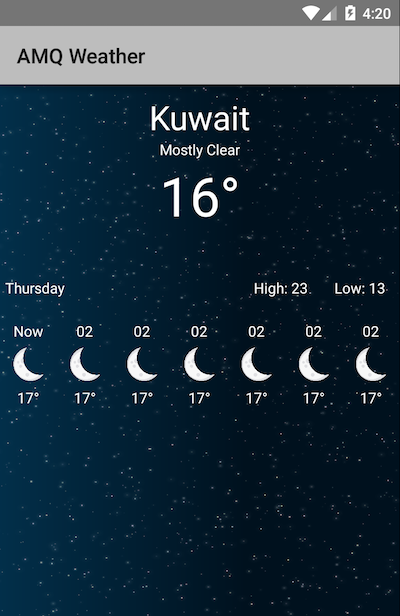
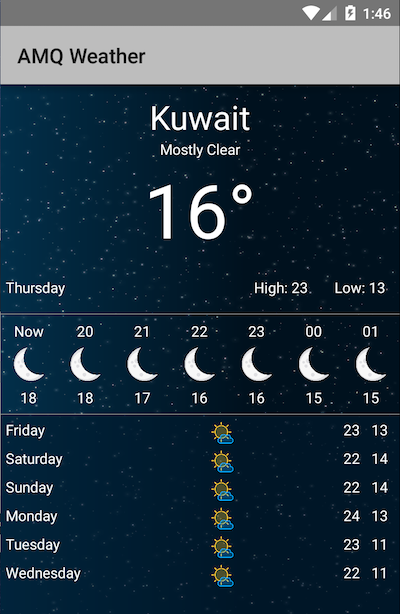
create amq add_alone for adding independent views, updating the weather example.

diff --git a/examples/weather/app/weather_screen.rb b/examples/weather/app/weather_screen.rb
@@ -16,21 +16,41 @@ class WeatherScreen < AMQScreen
           day_info.add(:text_view, :low_temp)
         end
         
+        details.add(:plain_view, :separator)
+        
         details.add(:linear_layout, :hourly_section) do |hourly|
-          hourly.add(:linear_layout, :hour_layout) do |now|
-            now.add(:text_view, :now_label)
-            now.add(:image_view, :moon)
-            now.add(:text_view, :temp)
-          end
-          
-          6.times do
-            hourly.add(:linear_layout, :hour_layout) do |hour|
-              hour.add(:text_view, :hour_label)
-              hour.add(:image_view, :moon)
-              hour.add(:text_view, :temp)
+          hours = %w(Now 20 21 22 23 00 01 02)
+          temps = %w(18  18 17 16 16 15 15 15)          
+          hours.each_with_index do |hour, index|
+            hourly.add(:linear_layout, :hour_layout) do |hour_column|
+              hour_column.add(:text_view, :hour_label).text = hour
+              hour_column.add(:image_view, :moon)
+              hour_column.add(:text_view, :temp).text = temps[index]
             end
           end
         end
+        
+        details.add(:plain_view, :separator)
+        
+        details.add(:grid_view, :daily_grid) do |daily_table|
+          forecast = [
+            {day: "Friday",     hi: "23", lo: "13"},
+            {day: "Saturday",   hi: "22", lo: "14"},
+            {day: "Sunday",     hi: "22", lo: "14"},
+            {day: "Monday",     hi: "24", lo: "13"},
+            {day: "Tuesday",    hi: "23", lo: "11"},
+            {day: "Wednesday",  hi: "22", lo: "11"},
+          ]
+          daily_table.adapter(forecast) do |day_forecast|
+            amq.add_alone(:linear_layout, :daily_layout) do |daily_layout|
+              daily_layout.add(:text_view,  :week_day_name).text = day_forecast[:day]
+              daily_layout.add(:image_view, :week_day_image)
+              daily_layout.add(:text_view,  :week_day_hi).text = day_forecast[:hi]
+              daily_layout.add(:text_view,  :week_day_lo).text = day_forecast[:lo]
+            end.get
+          end
+        end
+        
       end
     end
   end
@@ -70,7 +90,7 @@ class WeatherStyle < AMQStylesheet
     st.height = :wc
     st.text = "16\u00B0"
     st.text_alignment = :center
-    st.text_size = 52
+    st.text_size = 72
     st.text_color = :white
   end
   
@@ -126,14 +146,6 @@ class WeatherStyle < AMQStylesheet
     st.weight_sum = 3
   end
   
-  def now_label(st)
-    st.text = 'Now'
-    st.text_color = :white
-    st.text_alignment = :center
-    st.weight = 1
-    st.height = 0
-  end
-  
   def moon(st)
     st.image = 'moon'
     st.weight = 1
@@ -152,6 +164,57 @@ class WeatherStyle < AMQStylesheet
     st.text = "02"
     st.text_alignment = :center
     st.height = 0
+    st.weight = 1
+    st.text_color = :white
+  end
+  
+  def separator(st)
+    st.height = 1
+    st.background_color = '#999999'
+  end
+  
+  def daily_grid(st)
+    st.padding_top = 10
+    st.number_of_columns = 1
+    st.stretch_mode = 2
+    st.vertical_spacing = 5
+    st.weight = 6
+    st.height = 0
+    st.background_color = '#88001B2E'
+  end
+  
+  def daily_layout(st)
+    st.weight_sum = 10
+  end
+  
+  def week_day_name(st)
+    st.width = 0
+    st.height = :wc
+    st.weight = 5
+    st.margin_left = 10
+    st.text_color = :white
+  end
+  
+  def week_day_image(st)
+    st.image = 'partly_cloudy'
+    st.width = 0
+    st.height = 50
+    st.weight = 1
+    st.layout_gravity = :left
+  end
+  
+  def week_day_hi(st)
+    st.text_alignment = :right
+    st.width = 0
+    st.height = :wc
+    st.weight = 3
+    st.text_color = :white
+  end
+  
+  def week_day_lo(st)
+    st.text_alignment = :center
+    st.width = 0
+    st.height = :wc
     st.weight = 1
     st.text_color = :white
   end

diff --git a/lib/android_motion_query/amq.rb b/lib/android_motion_query/amq.rb
@@ -12,7 +12,7 @@ class AndroidMotionQuery
   end
     
   def create_android_query_view(view, style_method, layout_params, options = {}, &block)
-    self.root = AMQView.new(view, self.activity, self.stylesheet, style_method, layout_params, options)
+    self.root ||= AMQView.new(view, self.activity, self.stylesheet, style_method, layout_params, options)
     self.stylesheet.apply_style_for(self.root, style_method, layout_params)
     block.call(self.root) if block_given?
     self.activity.setContentView(self.root.get)
@@ -30,32 +30,38 @@ class AndroidMotionQuery
     self.root.get.findViewById(id).tag
   end
   
-  def add(view_sym, style, &block)
-    self.send(view_sym, style, &block)
+  def add(view_sym, style_method, &block)
+    view, layout_params = self.send(view_sym, &block)
+    create_android_query_view(view, style_method, layout_params, {}, &block)
   end
   
-  def linear_layout(style_method, &block)
+  def add_alone(view_sym, style_method, &block)
+    view, layout_params = self.send(view_sym, &block)
+    create_standalone_amq_view(view, style_method, layout_params, {}, &block)
+  end
+  
+  def linear_layout(&block)
     view = Android::Widget::LinearLayout.new(self.activity)
     layout_params = Android::Widget::LinearLayout::LayoutParams
-    create_android_query_view(view, style_method, layout_params, {}, &block)
+    [view, layout_params]
   end
   
-  def relative_layout(style_method, &block)
+  def relative_layout(&block)
     view = Android::Widget::RelativeLayout.new(self.activity)
     layout_params = Android::Widget::RelativeLayout::LayoutParams
-    create_android_query_view(view, style_method, layout_params, {}, &block)
+    [view, layout_params]
   end
   
-  def frame_layout(style_method, &block)
+  def frame_layout(&block)
     view = Android::Widget::FrameLayout.new(self.activity)
     layout_params = Android::Widget::FrameLayout::LayoutParams
-    create_android_query_view(view, style_method, layout_params, {}, &block)
+    [view, layout_params]
   end
   
-  def text_view(style_method, &block)
+  def text_view(&block)
     view = Android::Widget::TextView.new(self.activity)
     layout_params = Android::Widget::LinearLayout::LayoutParams
-    create_standalone_amq_view(view, style_method, layout_params, {}, &block)
+    [view, layout_params]
   end
   
   def toast(text, options = {})

diff --git a/lib/android_motion_query/views.rb b/lib/android_motion_query/views.rb
@@ -59,6 +59,11 @@ class AMQView
     lp = Android::Widget::FrameLayout::LayoutParams
     create_android_query_view(view, style_method, lp, {}, &block)
   end
+  
+  def plain_view(style_method, &block)
+    view = Android::View::View.new(self.activity)
+    new_view(view, style_method, &block)
+  end
 
   def text_view(style_method, &block)
     view = Android::Widget::TextView.new(self.activity)

diff --git a/lib/android_motion_query/stylesheet.rb b/lib/android_motion_query/stylesheet.rb
@@ -318,4 +318,16 @@ class AMQStylesheetElement
       self.params.gravity = :center
     end
   end
+  
+  def number_of_columns=(columns)
+    self.view.get.numColumns = columns
+  end
+  
+  def stretch_mode=(mode)
+    self.view.get.stretchMode = mode
+  end
+  
+  def vertical_spacing=(space)
+    self.view.get.verticalSpacing = space
+  end
 end
